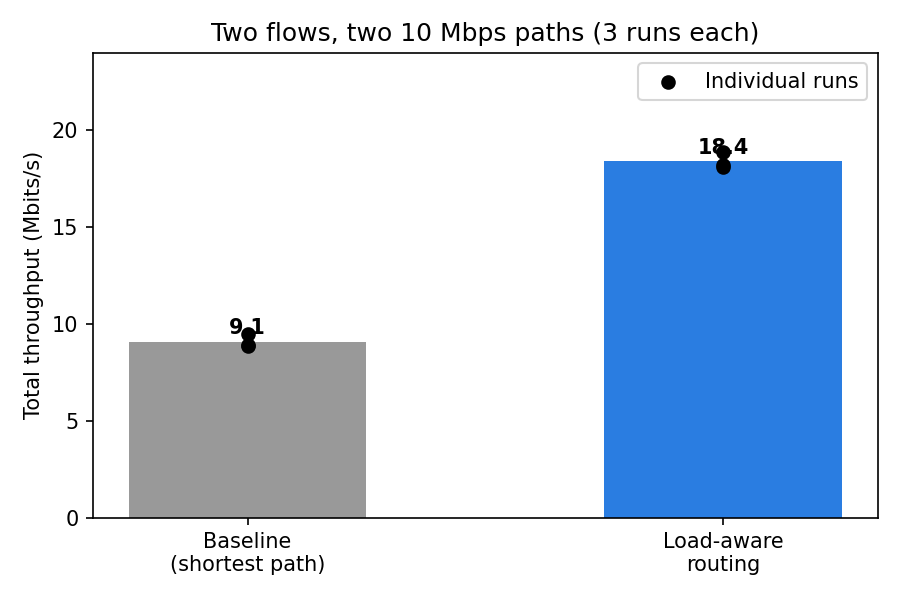
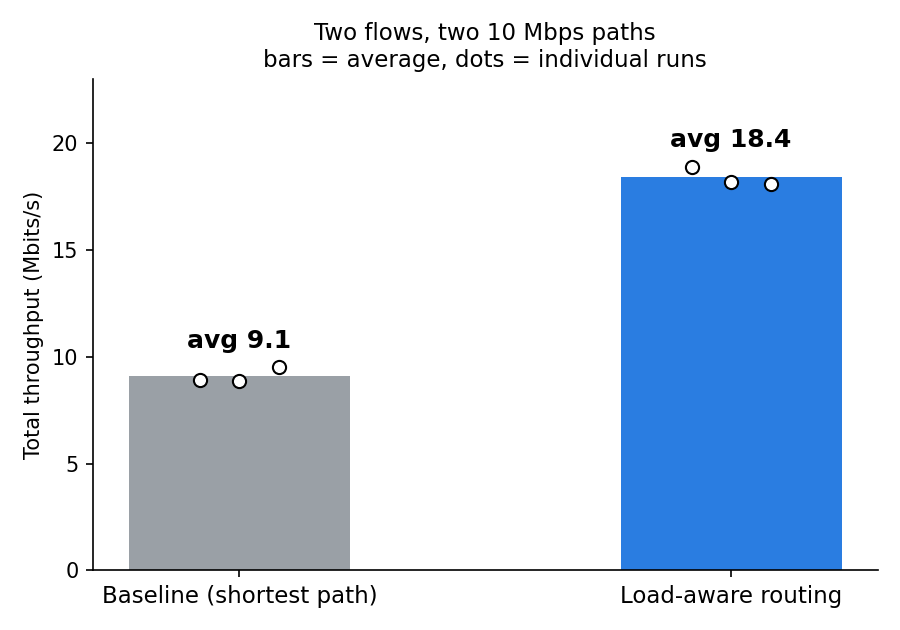
Clean up throughput graph

Changed region(s): [[0.0622, 0.03, 0.9644, 0.96], [0.0, 0.27, 0.0933, 0.75], [0.0622, 0.21, 0.0933, 0.24]]

diff --git a/results/make_graph.py b/results/make_graph.py
@@ -4,26 +4,29 @@ import matplotlib.pyplot as plt
 
 baseline = [8.90, 8.86, 9.51]
 load_aware = [18.9, 18.2, 18.1]
+avg = [sum(baseline) / 3, sum(load_aware) / 3]
 
-avg_b = sum(baseline) / len(baseline)
-avg_l = sum(load_aware) / len(load_aware)
+fig, ax = plt.subplots(figsize=(6, 4.2))
+x = [0, 1]
+ax.bar(x, avg, color=["#9aa0a6", "#2a7de1"], width=0.45)
 
-fig, ax = plt.subplots(figsize=(6, 4))
-bars = ax.bar(["Baseline\n(shortest path)", "Load-aware\nrouting"],
-              [avg_b, avg_l], color=["#999999", "#2a7de1"], width=0.5)
+# individual runs, spread sideways so they don't overlap
+for i, runs in enumerate([baseline, load_aware]):
+    for j, v in enumerate(runs):
+        ax.scatter(i + (j - 1) * 0.08, v, color="white", edgecolor="black", s=40, zorder=3)
 
-# individual runs as dots
-ax.scatter([0] * 3, baseline, color="black", zorder=3, label="Individual runs")
-ax.scatter([1] * 3, load_aware, color="black", zorder=3)
+# average labels above everything
+for i, a in enumerate(avg):
+    top = max([baseline, load_aware][i])
+    ax.text(i, top + 0.9, f"avg {a:.1f}", ha="center", fontsize=12, fontweight="bold")
 
-for bar, v in zip(bars, [avg_b, avg_l]):
-    ax.text(bar.get_x() + bar.get_width() / 2, v + 0.4, f"{v:.1f}",
-            ha="center", fontweight="bold")
-
+ax.set_xticks(x)
+ax.set_xticklabels(["Baseline (shortest path)", "Load-aware routing"], fontsize=11)
 ax.set_ylabel("Total throughput (Mbits/s)")
-ax.set_title("Two flows, two 10 Mbps paths (3 runs each)")
-ax.set_ylim(0, 24)
-ax.legend()
+ax.set_title("Two flows, two 10 Mbps paths\nbars = average, dots = individual runs", fontsize=11)
+ax.set_ylim(0, 23)
+for s in ["top", "right"]:
+    ax.spines[s].set_visible(False)
 plt.tight_layout()
 plt.savefig("results/throughput.png", dpi=150)
 print("saved")
